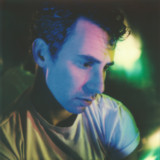
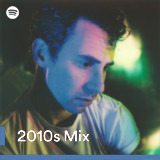
Recent buttons
Recent buttons se agregaron imagenes

diff --git a/lib/main.dart b/lib/main.dart
@@ -112,11 +112,13 @@ class _MyHomePageState extends State<MyHomePage> {
                       key: UniqueKey(),
                       title: 'Liked Songs',
                       c: Colors.blue,
+                      background: const AssetImage('images/likedSongs.png'),
                     ),
                     RecentButton(
                       key: UniqueKey(),
                       title: 'Musculok 2',
                       c: Colors.pink,
+                      background: const AssetImage('images/musculok.jpg'),
                     ),
                   ],
                 ),
@@ -126,11 +128,13 @@ class _MyHomePageState extends State<MyHomePage> {
                       key: UniqueKey(),
                       title: 'This is Kim Petras',
                       c: Colors.orange,
+                      background: const AssetImage('images/thisIsKimPetras.jpg'),
                     ),
                     RecentButton(
                       key: UniqueKey(),
                       title: '2010s Mix',
                       c: Colors.green,
+                      background: const AssetImage('images/2010sMix.jpg'),
                     ),
                   ],
                 ),
@@ -140,11 +144,13 @@ class _MyHomePageState extends State<MyHomePage> {
                       key: UniqueKey(),
                       title: 'On Repeat',
                       c: Colors.purple,
+                      background: const AssetImage('images/onRepeat.jpg'),
                     ),
                     RecentButton(
                       key: UniqueKey(),
                       title: 'Mr. Morale & The Big Steppers',
                       c: Colors.yellow,
+                      background: const AssetImage('images/mrMorale.jpg'),
                     ),
                   ],
                 ),

diff --git a/lib/widgets/recentButton.dart b/lib/widgets/recentButton.dart
@@ -1,9 +1,10 @@
 import 'package:flutter/material.dart';
 
 class RecentButton extends StatelessWidget{
-  String title;
-  Color c;
-  RecentButton({Key? key, required this.title, required this.c}) : super(key: key);
+  final String title;
+  final Color c;
+  final AssetImage background;
+  const RecentButton({Key? key, required this.title, required this.c, required this.background}) : super(key: key);
 
   @override
   Widget build(BuildContext context){
@@ -23,7 +24,11 @@ class RecentButton extends StatelessWidget{
                 width: 65.0,
                 height: 65.0,
                 decoration: BoxDecoration(
-                  color: c,
+
+                  image: DecorationImage(
+                    image: background,
+                    fit: BoxFit.cover,
+                  ),
                   borderRadius: const  BorderRadius.only(
                     topLeft: Radius.circular(10.0),
                     bottomLeft: Radius.circular(10.0),
